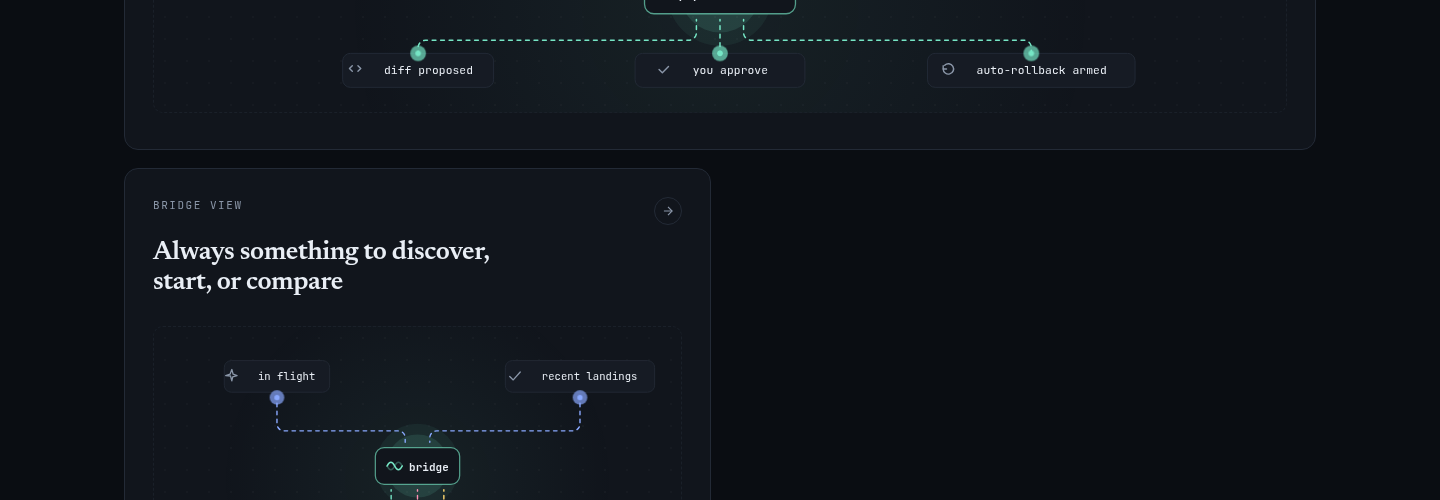
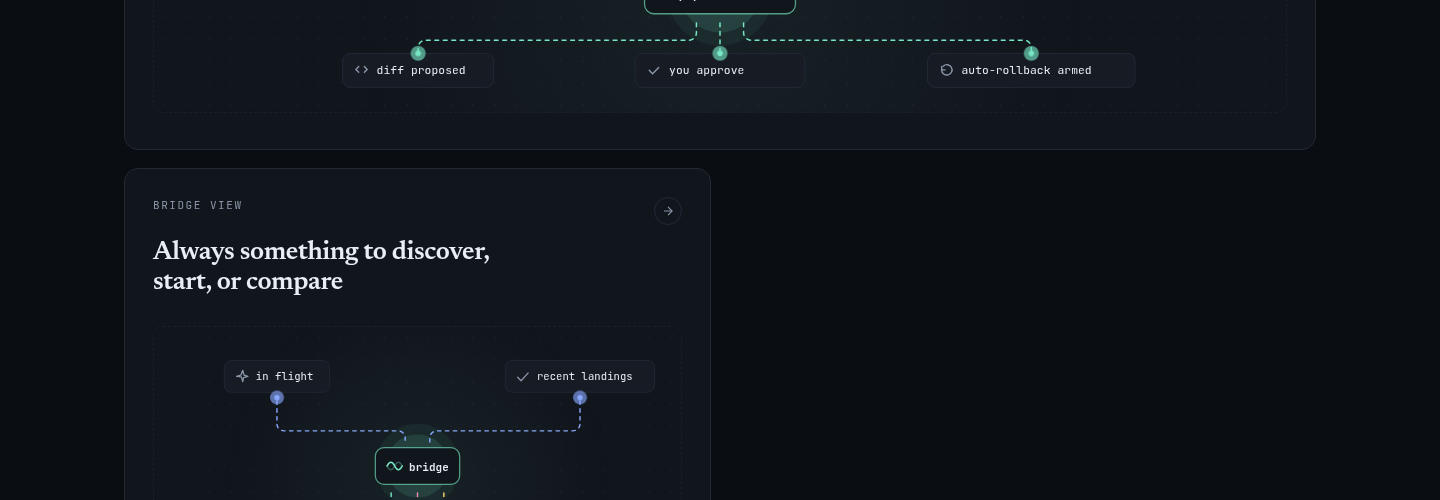
fix(mockups): tighten short-label boxes
Boxes for short labels (start, compare, discover, PR !58, review pass)
were inheriting wider widths from their long-label siblings, leaving
excess right padding. Each box now sized to fit its content (icon +
gap + text + 2*padding). Icons and texts re-anchored to the new box
.x values.

diff --git a/docs/scope/mockups/public-landing.html b/docs/scope/mockups/public-landing.html
@@ -835,7 +835,7 @@
 
             <rect class="box-dim" x="400" y="224" width="170" height="36" rx="8"/><svg x="412" y="234" width="16" height="16" viewBox="0 0 16 16" fill="none" stroke="#5c6675" stroke-width="1.5" stroke-linecap="round" stroke-linejoin="round"><circle cx="8" cy="8" r="6"/><path d="M11 5.5H7a1.5 1.5 0 0 0 0 3h2a1.5 1.5 0 0 1 0 3H5"/><path d="M8 4v8"/></svg><text class="label-dim" text-anchor="start" x="436" y="246">budget cap $0.50</text>
 
-            <rect class="box-dim" x="220" y="224" width="160" height="36" rx="8" stroke-dasharray="3 3"/>
+            <rect class="box-dim" x="240" y="224" width="120" height="36" rx="8" stroke-dasharray="3 3"/>
             <svg x="232" y="234" width="16" height="16" viewBox="0 0 16 16" fill="none" stroke="#5c6675" stroke-width="1.5" stroke-linecap="round" stroke-linejoin="round"><circle cx="8" cy="8" r="6"/><polyline points="5.5 8 7.5 10 11 6.5"/></svg><text class="label-dim" x="311" y="246">review pass</text>
 
             <!-- connectors: distributed ports on hub top (286, 314) and bottom (270, 300, 330) -->
@@ -936,8 +936,8 @@
 
             <!-- outputs -->
             <rect class="box" x="40" y="224" width="130" height="36" rx="8"/><svg x="52" y="234" width="16" height="16" viewBox="0 0 16 16" fill="none" stroke="#8a96a8" stroke-width="1.5" stroke-linecap="round" stroke-linejoin="round"><circle cx="7" cy="7" r="4.5"/><line x1="10.5" y1="10.5" x2="14" y2="14"/></svg><text class="label" text-anchor="start" x="76" y="246">discover</text>
-            <rect class="box" x="235" y="224" width="130" height="36" rx="8"/><svg x="247" y="234" width="16" height="16" viewBox="0 0 16 16" fill="none" stroke="#8a96a8" stroke-width="1.5" stroke-linecap="round" stroke-linejoin="round"><polygon points="3.5 2.5 13 8 3.5 13.5"/></svg><text class="label" text-anchor="start" x="271" y="246">start</text>
-            <rect class="box" x="430" y="224" width="130" height="36" rx="8"/><svg x="442" y="234" width="16" height="16" viewBox="0 0 16 16" fill="none" stroke="#8a96a8" stroke-width="1.5" stroke-linecap="round" stroke-linejoin="round"><line x1="4" y1="2" x2="4" y2="14"/><line x1="12" y1="2" x2="12" y2="14"/><polyline points="6 5 4 3 2 5"/><polyline points="14 11 12 13 10 11"/></svg><text class="label" text-anchor="start" x="466" y="246">compare</text>
+            <rect class="box" x="255" y="224" width="90" height="36" rx="8"/><svg x="267" y="234" width="16" height="16" viewBox="0 0 16 16" fill="none" stroke="#8a96a8" stroke-width="1.5" stroke-linecap="round" stroke-linejoin="round"><polygon points="3.5 2.5 13 8 3.5 13.5"/></svg><text class="label" text-anchor="start" x="291" y="246">start</text>
+            <rect class="box" x="444" y="224" width="102" height="36" rx="8"/><svg x="456" y="234" width="16" height="16" viewBox="0 0 16 16" fill="none" stroke="#8a96a8" stroke-width="1.5" stroke-linecap="round" stroke-linejoin="round"><line x1="4" y1="2" x2="4" y2="14"/><line x1="12" y1="2" x2="12" y2="14"/><polyline points="6 5 4 3 2 5"/><polyline points="14 11 12 13 10 11"/></svg><text class="label" text-anchor="start" x="480" y="246">compare</text>
 
             <!-- connectors: distributed ports on hub top (286, 314) and bottom (270, 300, 330) -->
             <path class="connector in"  d="M140 62 V92 A8 8 0 0 0 148 100 H278 A8 8 0 0 1 286 108 V113"/>
